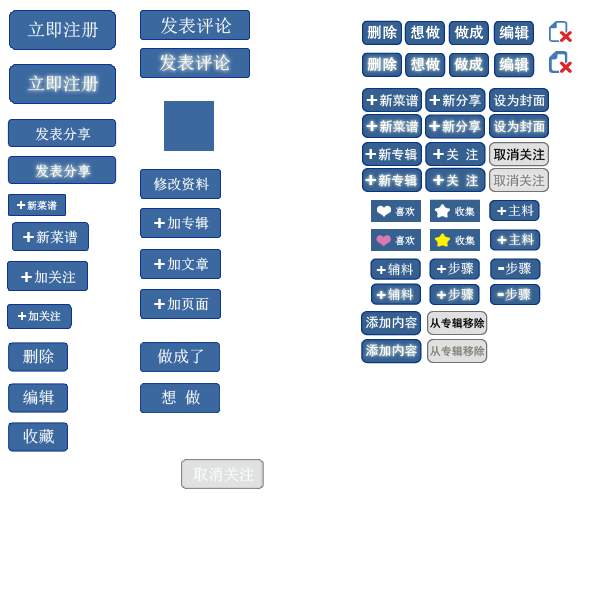
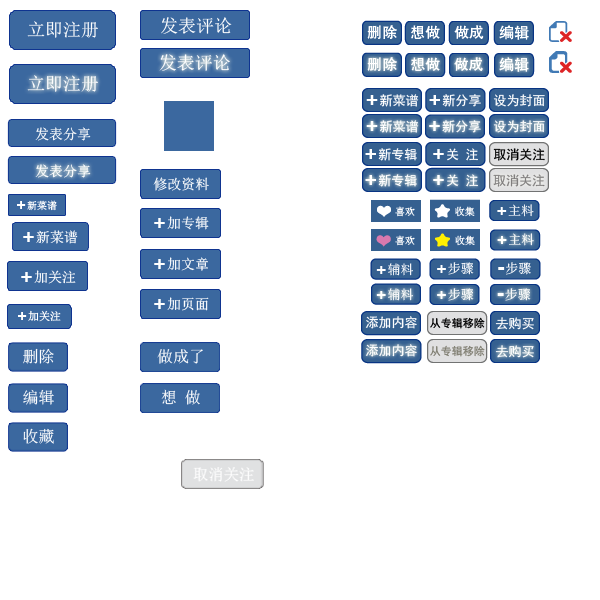
Merge branch 'master' of github.com:thorwing/yin11 into duo
Conflicts:
	app/assets/images/add_image.png
	app/assets/images/not_found.png
	app/assets/stylesheets/upload.css
	app/views/reviews/_review_fields.html.erb

	button replace

Changed region(s): [[0.81, 0.51, 0.9, 0.63]]

diff --git a/app/assets/stylesheets/buttons.css b/app/assets/stylesheets/buttons.css
@@ -317,7 +317,7 @@ a.btn_register:hover{
  height:25px;
  background-image: url(buttons.png);
  background-repeat:no-repeat;
- background-position:-425px -142px;
+ background-position:-425px -141px;
  text-indent: -9999px;
 }
 
@@ -327,6 +327,24 @@ a.btn_register:hover{
  background-image: url(buttons.png);
  background-repeat:no-repeat;
  background-position:-425px -167px;
+ text-indent: -9999px;
+}
+
+.go_buy_btn{ float: left;
+ width:51px;
+ height:25px;
+ background-image: url(buttons.png);
+ background-repeat:no-repeat;
+ background-position:-490px -310px;
+ text-indent: -9999px;
+}
+
+.go_buy_btn:hover{float: left;
+ width:51px;
+ height:25px;
+ background-image: url(buttons.png);
+ background-repeat:no-repeat;
+ background-position:-490px -338px;
  text-indent: -9999px;
 }
 
@@ -353,7 +371,7 @@ a.btn_register:hover{
  height:25px;
  background-image: url(buttons.png);
  background-repeat:no-repeat;
- background-position:-489px -142px;
+ background-position:-489px -141px;
  text-indent: -9999px;
 }
 
